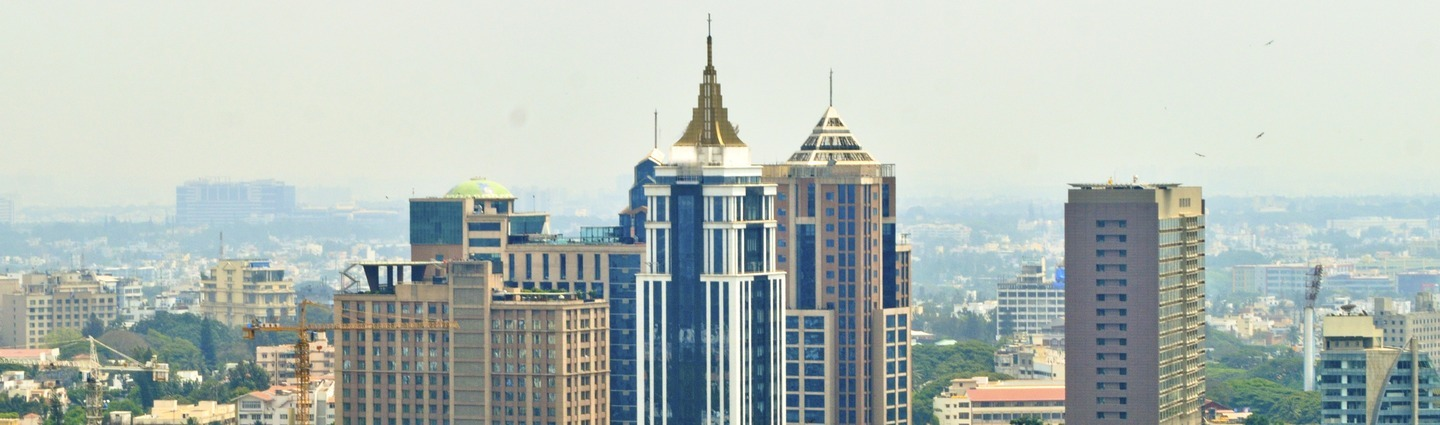
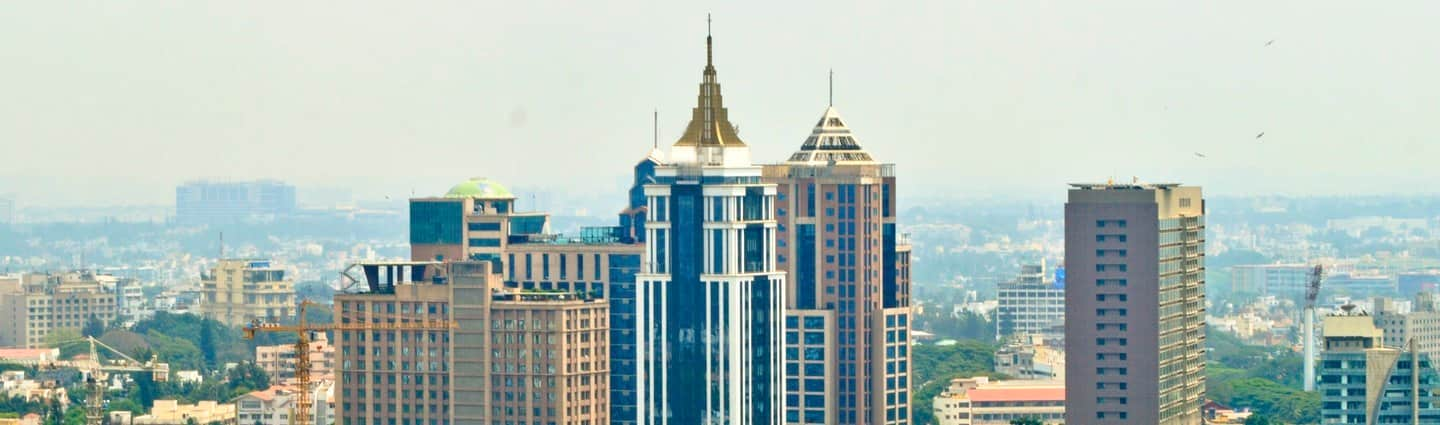
replaced assets with compressed versions

diff --git a/src/pages/index.js b/src/pages/index.js
@@ -6,9 +6,9 @@ import "../components/index.css"
 import SocialHome from "../components/social-home/social-home"
 import FooterHome from "../components/footer-home/footer-home"
 import Project from "../components/Project/Project"
-import ThinderPortfolio from "../images/Thinder_Portfolio.png"
-import BacklogPortfolio from "../images/Backlog_Portfolio.png"
-import PortfolioPage from "../images/Portfolio_Page.png"
+import ThinderPortfolio from "../images/Thinder_Portfolio.jpg"
+import BacklogPortfolio from "../images/Backlog_Portfolio.jpg"
+import PortfolioPage from "../images/Portfolio_Page.jpg"
 const IndexPage = () => (
   <Layout
     style={{

diff --git a/src/pages/projects.js b/src/pages/projects.js
@@ -4,9 +4,9 @@ import SEO from "../components/seo"
 import Header from "../components/header/header"
 import Footer from "../components/footer/footer"
 import Project from "../components/Project/Project"
-import BacklogPortfolio from "../images/Backlog_Portfolio.png"
-import ThinderPortfolio from "../images/Thinder_Portfolio.png"
-import PortfolioPage from "../images/Portfolio_Page.png"
+import BacklogPortfolio from "../images/Backlog_Portfolio.jpg"
+import ThinderPortfolio from "../images/Thinder_Portfolio.jpg"
+import PortfolioPage from "../images/Portfolio_Page.jpg"
 const ProjectsPage = () => (
   <Layout>
     <SEO title="Projects" />

diff --git a/src/pages/about.js b/src/pages/about.js
@@ -2,7 +2,7 @@ import React from "react"
 import Layout from "../components/layout"
 import SEO from "../components/seo"
 import Footer from "../components/footer/footer"
-import headshot from "../images/nikhilasrani.png"
+import headshot from "../images/nikhilasrani.jpg"
 import "./about.css"
 import Header from "../components/header/header"
 const AboutPage = () => (

diff --git a/src/pages/blog.js b/src/pages/blog.js
@@ -5,7 +5,7 @@ import Layout from "../components/layout"
 import SEO from "../components/seo"
 import Footer from "../components/footer/footer"
 import "./blog.css"
-import headshot from "../images/nikhilasrani.png"
+import headshot from "../images/nikhilasrani.jpg"
 import Header from "../components/header/header"
 const BlogPage = ({ data }) => (
   <Layout>
